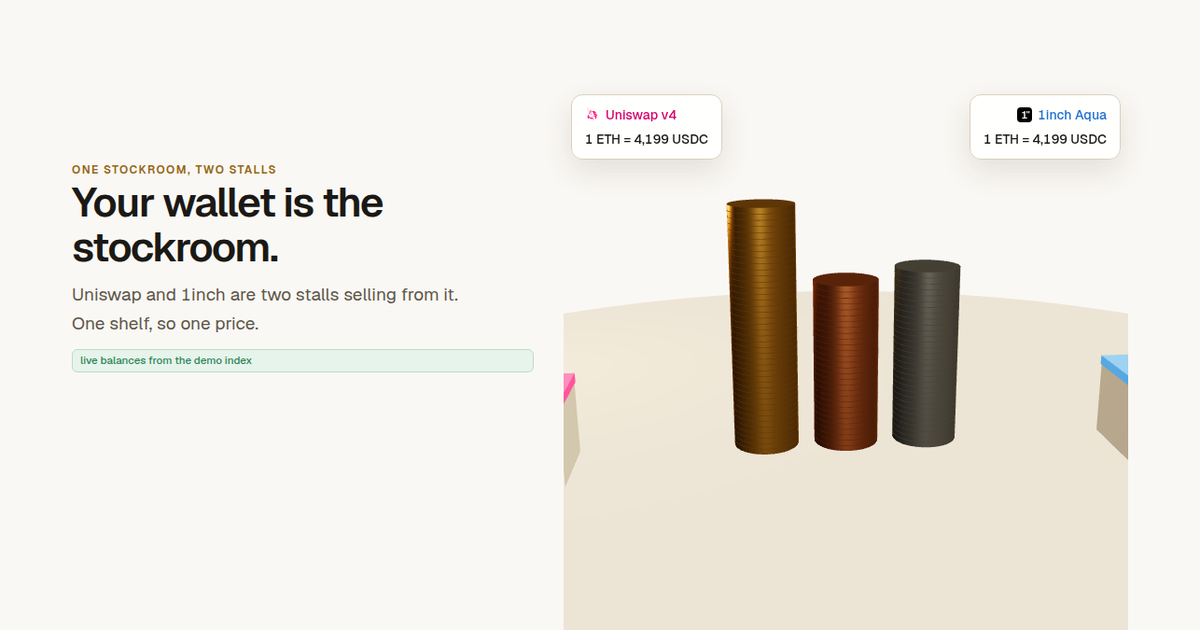
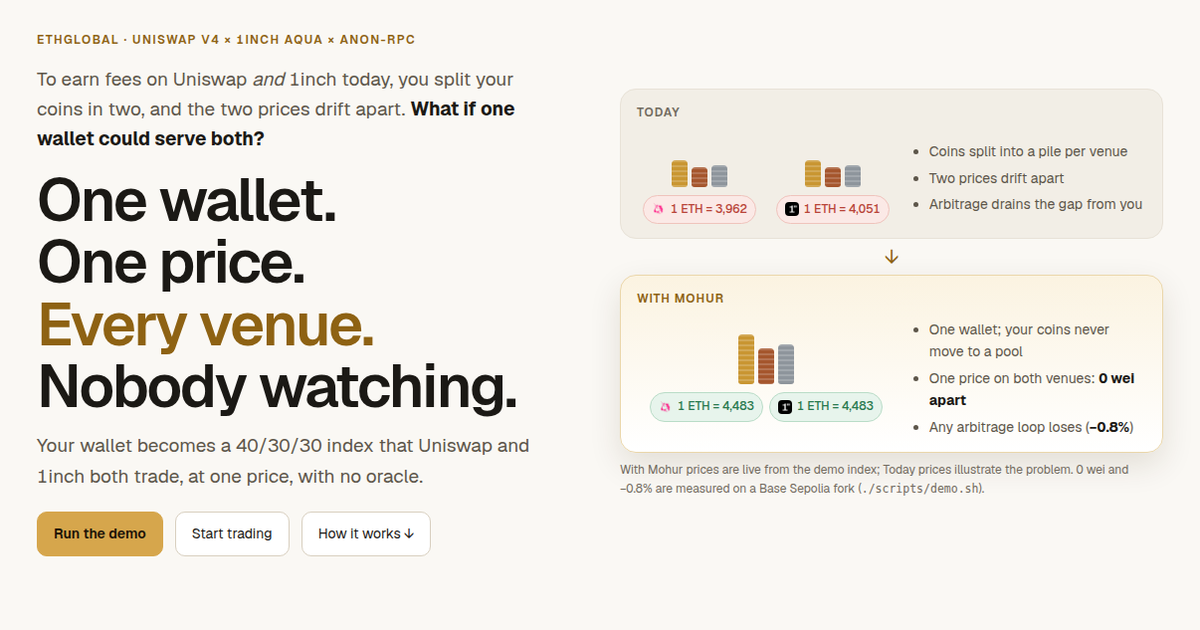
Link preview and README hero image now show the new first screen (the question, Today vs With Mohur, Run the demo)

diff --git a/web/src/app/layout.tsx b/web/src/app/layout.tsx
@@ -23,7 +23,7 @@ export const metadata: Metadata = {
   openGraph: {
     title: "Mohur: one wallet, one price, every venue",
     description: DESCRIPTION,
-    images: [{ url: `${BASE}/og.png`, width: 1200, height: 630, alt: "Mohur: the wallet as three coin stacks, quoted on Uniswap v4 and 1inch Aqua at the same price" }],
+    images: [{ url: `${BASE}/og.png`, width: 1200, height: 630, alt: "Mohur. Today: coins split per venue, two prices drift. With Mohur: one wallet, one price on Uniswap v4 and 1inch Aqua, 0 wei apart." }],
     type: "website",
   },
   twitter: { card: "summary_large_image", title: "Mohur", description: DESCRIPTION, images: [`${BASE}/og.png`] },

diff --git a/README.md b/README.md
@@ -4,7 +4,7 @@
 
 **One wallet, one price, every venue, nobody watching.**
 
-![The wallet as three coin stacks (ETH, BTC, USDC) quoted on Uniswap v4 and 1inch Aqua at the same price](web/public/og.png)
+![Today: coins split per venue and two prices drift. With Mohur: one wallet, one price on Uniswap v4 and 1inch Aqua, 0 wei apart](web/public/og.png)
 
 Mohur turns a self-custodial wallet into a weighted index (for example 40% ETH / 30% BTC / 30% USDC)
 that **Uniswap v4** and **1inch Aqua** both trade against at the same time, from the same coins, at the
